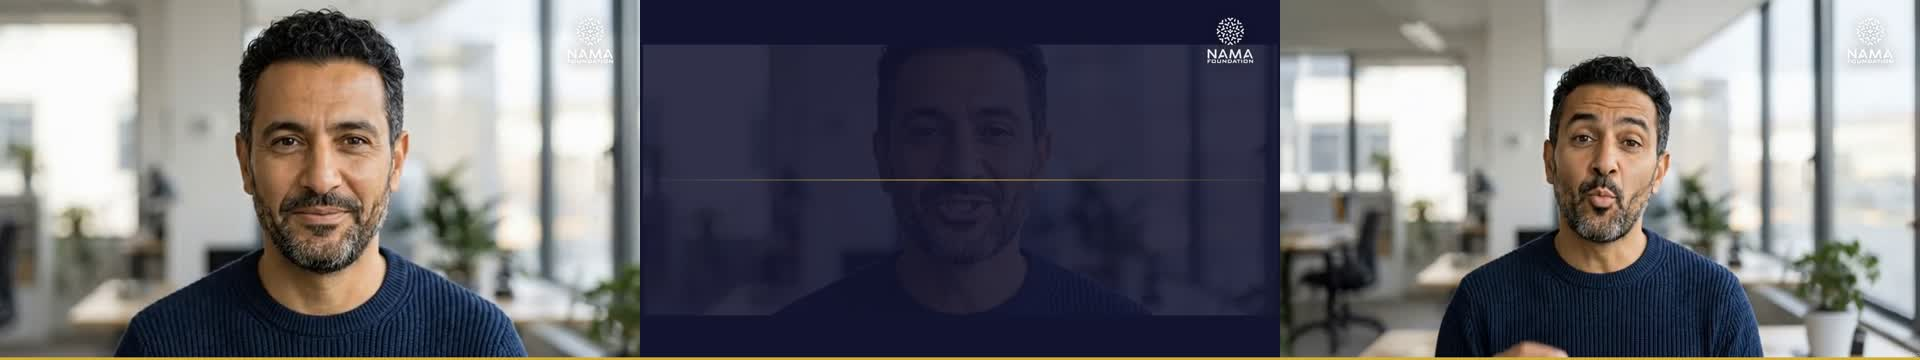
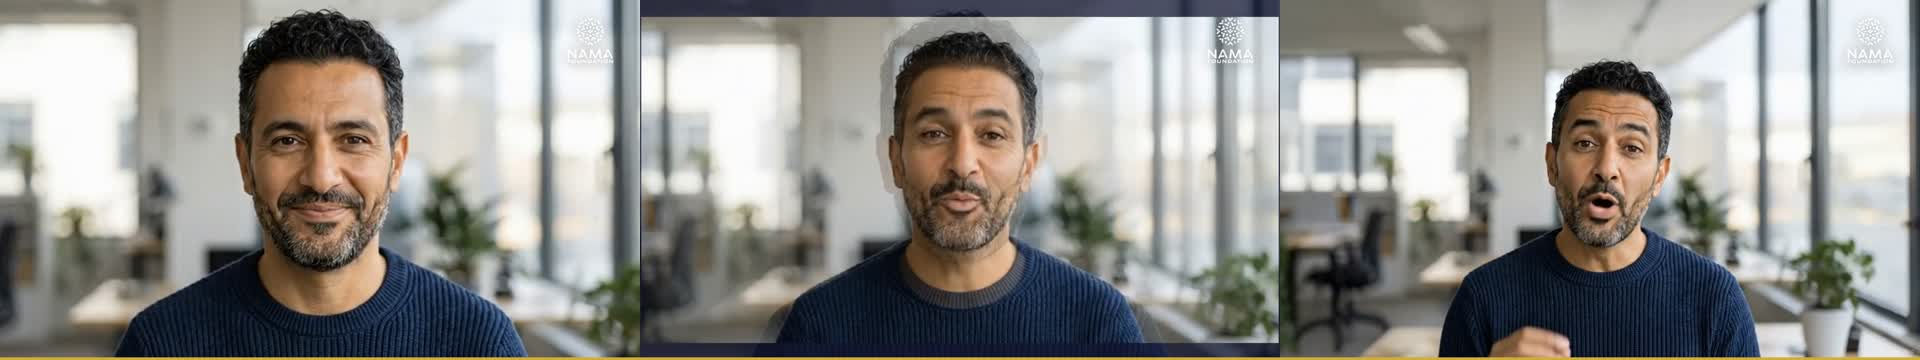
lesson 09: use clean source-seam dissolves

diff --git a/production/act-engine/src/compositions/Lesson09.tsx b/production/act-engine/src/compositions/Lesson09.tsx
@@ -10,7 +10,6 @@ import { theme } from "../components/theme";
 import { LessonLabelContext, ContentEdgesContext } from "../slides/SlideFrame";
 import { BrandWatermark } from "../brand/BrandWatermark";
 import { GoldBaseline } from "../brand/FrameChrome";
-import { SceneTransitionLayer } from "../transitions/SceneTransitionLayer";
 
 export function Lesson09() {
   const edl = useMemo(() => {
@@ -37,7 +36,6 @@ export function Lesson09() {
         </ContentEdgesContext.Provider>
       </LessonLabelContext.Provider>
       <PresenterLayer scenes={edl.scenes} videoSrc={src} sourceCutSeconds={edl.sourceCutSeconds} />
-      <SceneTransitionLayer edl={edl} />
       <BrandWatermark />
       <GoldBaseline />
     </AbsoluteFill>
